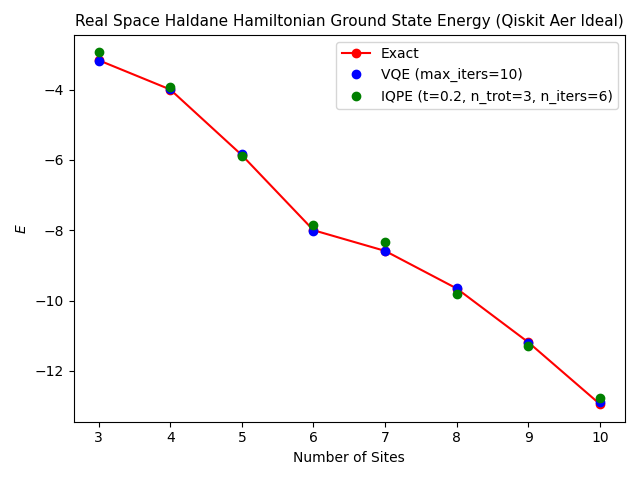
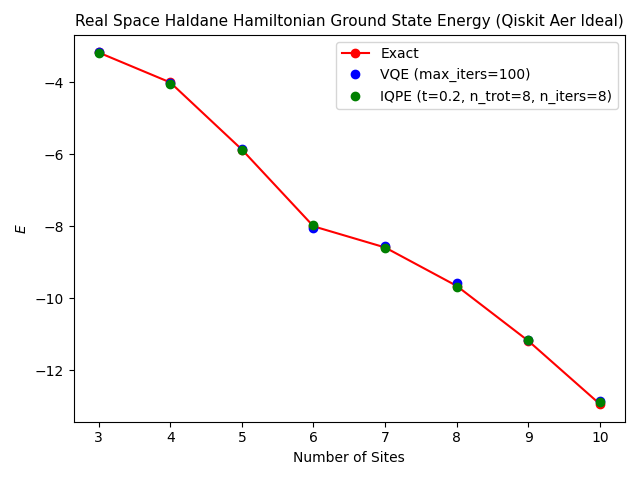
Added simulated ideal with reasonable parameters

diff --git a/scripts/haldane-model/utils.py b/scripts/haldane-model/utils.py
@@ -161,11 +161,11 @@ def real_space_vqe(n_sites: int, t1: float, t2: float, phi: float, n_occ: int, m
     fermionic_hamiltonian = real_space_fermionic_hamiltonian(n_sites, t1, t2, phi)
     qubit_hamiltonian = mapper.map(fermionic_hamiltonian)
     simulator = AerSimulator.from_backend(backend) if backend else AerSimulator()
+
+    ansatz = real_space_slater_determinant(n_sites, t1, t2, phi, n_occ)
+    ansatz_circuit = transpile(ansatz, backend=simulator, optimization_level=3)
     
     with Session(backend=simulator) as session:
-        ansatz = real_space_slater_determinant(n_sites, t1, t2, phi, n_occ)
-        ansatz_circuit = transpile(ansatz, backend=simulator, optimization_level=3)
-    
         estimator = Estimator(mode=session)
         x0 = 2 * np.pi * np.random.random(ansatz.num_parameters)
         

diff --git a/scripts/haldane-model/real_space_site_number_simulated_ideal.py b/scripts/haldane-model/real_space_site_number_simulated_ideal.py
@@ -12,8 +12,8 @@ t1, t2, phi = 1.0, 0.05, np.pi/4
 spin = 2
 n_sites_max = 10
 mapper = JordanWignerMapper()
-max_iters = 20
-t, n_trot, n_iters = 0.2, 3, 6
+max_iters = 100
+t, n_trot, n_iters = 0.2, 8, 8
 
 data = {
     "exact": {},

diff --git a/scripts/haldane-model/real_space_particle_number_simulated_ideal.py b/scripts/haldane-model/real_space_particle_number_simulated_ideal.py
@@ -12,8 +12,8 @@ n_sites = 6
 t1, t2, phi = 1.0, 0.05, np.pi/4
 spin = 2
 mapper = JordanWignerMapper()
-max_iters = 20
-t, n_trot, n_iters = 0.2, 3, 6
+max_iters = 100
+t, n_trot, n_iters = 0.2, 8, 8
 
 data = {
     "exact": {},
